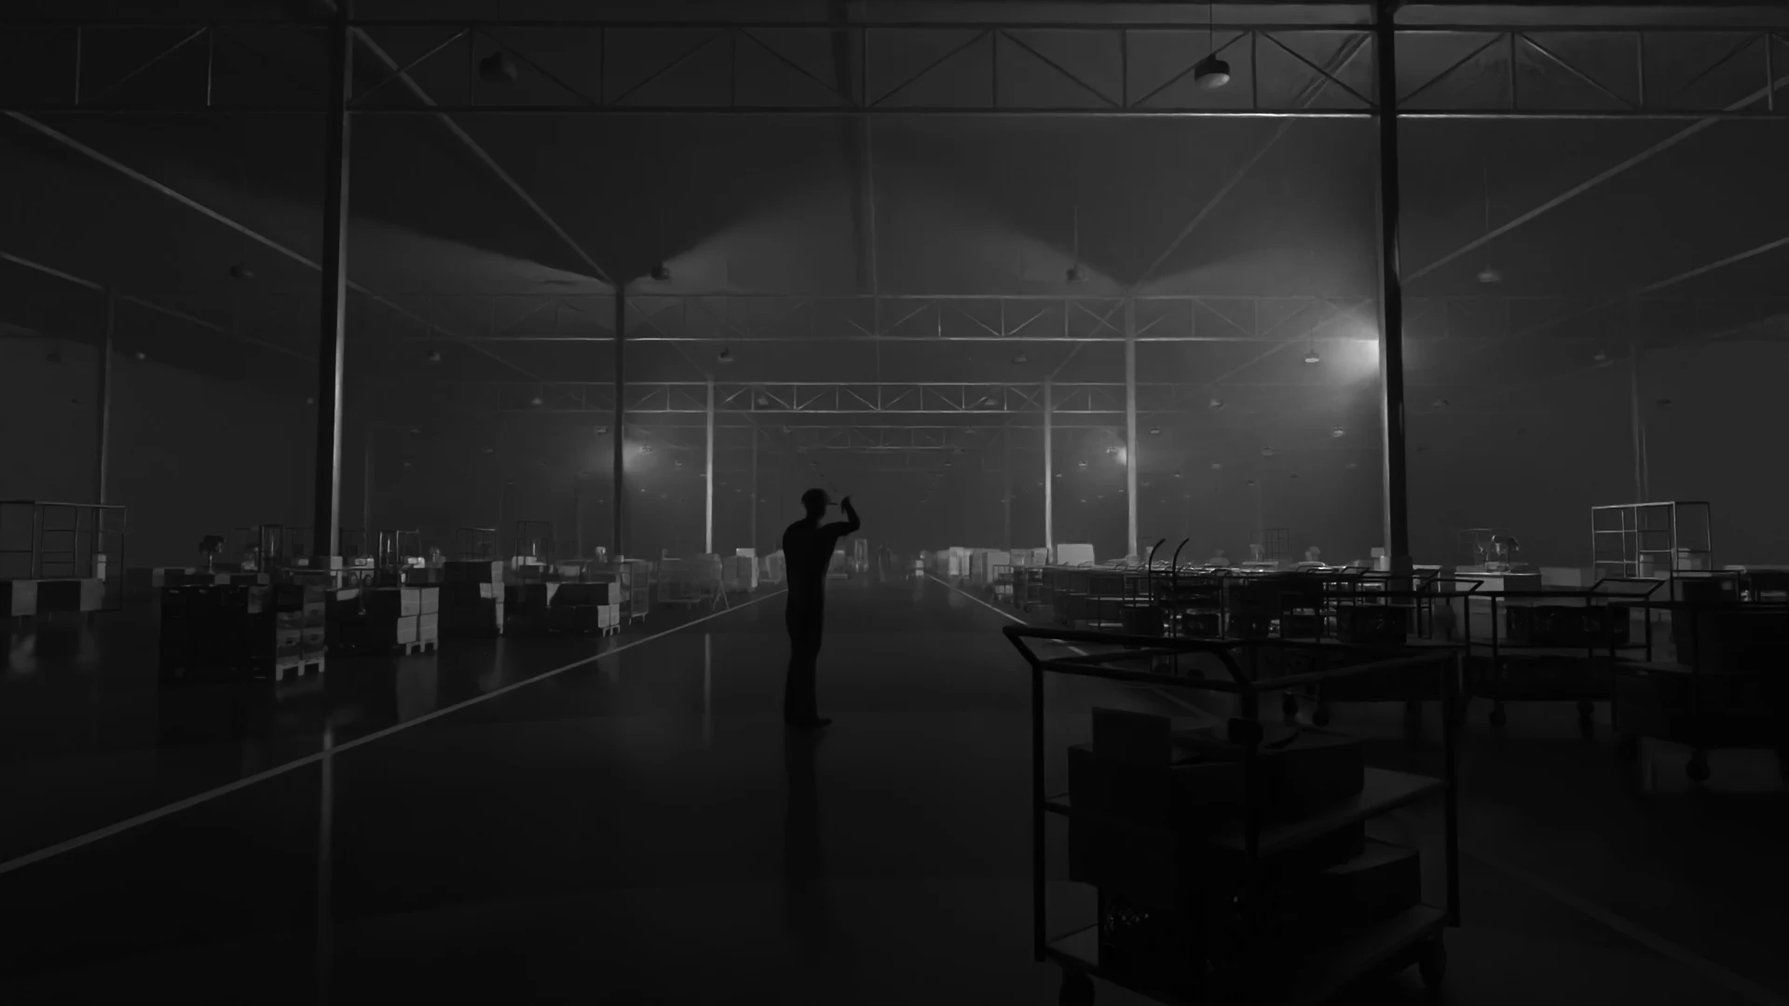
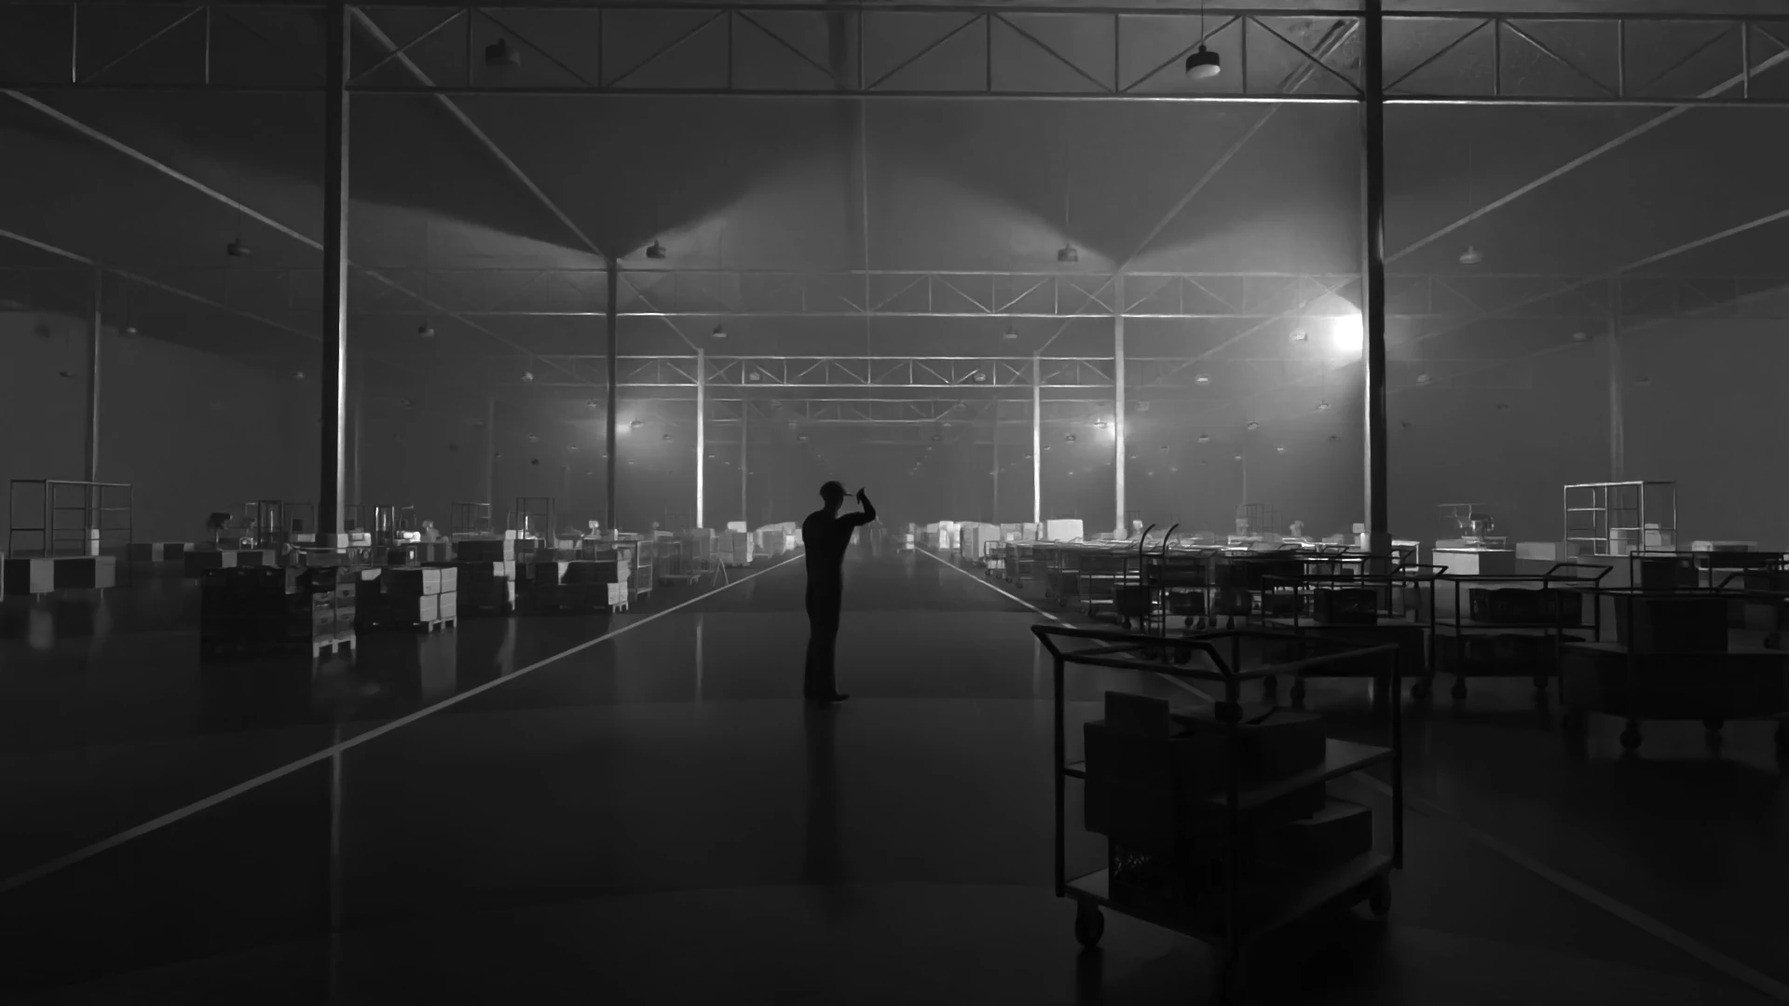
Explainer: Found re-shot with the whole trolley, labels on clear ground at full contrast, the plant dims before the tag arrives
Claude-Session: https://claude.ai/code/session_01YEydMJrMXd25Uxd8C1TWVL

diff --git a/studio/v1/js/lfs.js b/studio/v1/js/lfs.js
@@ -20,7 +20,13 @@
     return { el: el, k: el.getAttribute('data-k'), plate: el.getAttribute('data-plate'), a: r[0], b: r[1], img: $('img', el), o: -1 };
   });
   var FADE = .013;     /* scenes meet and cross-fade: there is never an empty screen between them */
-  function fadeOf(f, p) { return (f.a <= 0 ? 1 : ss(f.a - FADE, f.a + FADE, p)) * (f.b >= 1 ? 1 : 1 - ss(f.b - FADE, f.b + FADE, p)); }
+  /* into and out of the tag close-up the picture dips: the plant dims first, then the tag arrives (no ghost of one over the other) */
+  function fadeOf(f, p) {
+    var di = f.k === 'tag' || f.k === 'found', dout = f.k === 'isl' || f.k === 'tag';
+    var i = f.a <= 0 ? 1 : di ? ss(f.a - FADE * .4, f.a + FADE * 2.4, p) : ss(f.a - FADE, f.a + FADE, p);
+    var o = f.b >= 1 ? 1 : dout ? 1 - ss(f.b - FADE * 2.4, f.b + FADE * .4, p) : 1 - ss(f.b - FADE, f.b + FADE, p);
+    return i * o;
+  }
   var texts = $$('[data-p]').filter(function (el) { return !el.classList.contains('lfs-f'); }).map(function (el) {
     var fr = el.closest('.lfs-f'), li = el.tagName === 'LI';
     var t = { el: el, li: li, plate: fr.getAttribute('data-plate'), at: el.getAttribute('data-at'), o: -1, x: -1, y: -1 };
@@ -94,7 +100,7 @@
       snd.blink(t);
     } else if (f.k === 'found') {
       var cone = ss(.5, .66, q), run = q > .1;
-      u.sod[0] = mix(.34, .1, cone); u.col[0] = cone * 1.7; u.zoom = 1.035 + .03 * q;
+      u.sod[0] = mix(.46, .1, cone); u.col[0] = cone * 1.7; u.zoom = 1.035 + .03 * q;
       var ph = t % PERIOD, n = Math.floor(t / PERIOD);
       if (n !== pulse.n) { pulse.n = n; pulse.hit = [0, 0, 0]; if (run) snd.tick(); }
       var r = ph * SPEED; pulse.r = r;
@@ -318,7 +324,7 @@
           var c = [[dx, dy], [-dx, dy], [dx, -dy], [-dx, -dy]], ok = false;
           for (var ci = 0; ci < 4 && !ok; ci++) {
             var l = X + (c[ci][0] > 0 ? c[ci][0] : c[ci][0] - x.w), tp = Y + (c[ci][1] > 0 ? c[ci][1] : c[ci][1] - x.h + 20);
-            ok = l > 12 && l + x.w < sw - 12 && tp > 12 && tp + x.h < (tall ? zone : sh - 60) && !(tz && l < tz.r + 16 && l + x.w > tz.l - 16 && tp < tz.b + 12 && tp + x.h > tz.t - 12);
+            ok = l > 12 && l + x.w < sw - 12 && tp > (tall ? 70 : 100) && tp + x.h < (tall ? zone : sh - 60) && !(tz && l < tz.r + 16 && l + x.w > tz.l - 16 && tp < tz.b + 12 && tp + x.h > tz.t - 12);
             if (ok) { dx = c[ci][0]; dy = c[ci][1]; }
           }
           if (!ok) { set(x, 0); return; }

diff --git a/studio/v1/css/lfs.css b/studio/v1/css/lfs.css
@@ -48,8 +48,10 @@
 .lfs-on .lfs-word,.lfs-on .lfs-lines p,.lfs-on .lfs-facts li,.lfs-on .lfs-count,.lfs-on .lfs-close{opacity:0;will-change:opacity,transform}
 .lfs-on .lfs-facts{position:absolute;inset:0;z-index:4;margin:0;padding:0}
 .lfs-on .lfs-facts li{position:absolute;left:0;top:0;width:0;height:0;margin:0}
-.lfs-on .lfs-facts li>span{position:absolute;white-space:nowrap;text-shadow:0 0 14px rgba(5,6,13,.9),0 0 3px rgba(5,6,13,.8)}
-.lfs-hair{position:absolute;left:0;top:0;height:1px;background:rgba(255,255,255,.4);transform-origin:0 50%}
+.lfs-on .lfs-facts li>span{position:absolute;white-space:nowrap;color:#f4f6fa;z-index:0;text-shadow:0 0 12px rgba(5,6,13,.95),0 0 3px rgba(5,6,13,.9)}
+/* a label stands in its own soft patch of dark, with no edge: not a card */
+.lfs-on .lfs-facts li>span::before{content:"";position:absolute;z-index:-1;inset:-12px -20px;border-radius:30px;background:rgba(5,6,13,.74);filter:blur(13px)}
+.lfs-hair{position:absolute;left:0;top:0;height:1px;background:rgba(255,255,255,.62);transform-origin:0 50%}
 .lfs-dot{position:absolute;left:-3px;top:-3px;width:6px;height:6px;border-radius:50%;background:var(--lfs-blue)}
 .lfs-wait .lfs-dot{background:var(--lfs-amber)}
 .lfs-on .lfs-end{position:absolute;z-index:4;left:var(--lfs-m);top:calc(var(--sv)*.3);padding:0;width:min(60vw,820px)}

diff --git a/studio/v1/index.html b/studio/v1/index.html
@@ -145,9 +145,9 @@
         </div>
       </div>
       <ul class="lfs-facts">
-        <li data-at="worker" data-p=".795,.93" data-pm=".79,.848" data-o="38,-92" data-om="22,-74"><span>Nearest free forklift:<br><b>35 m</b>, aisle B3.</span></li>
+        <li data-at="worker" data-p=".795,.93" data-pm=".79,.848" data-o="-56,-128" data-om="22,-74"><span>Nearest free forklift:<br><b>35 m</b>, aisle B3.</span></li>
         <li data-at="free" class="lfs-wait" data-p=".82,.93" data-pm=".805,.848" data-o="44,34" data-om="-20,40"><span>Parked<br><b>2 h 10 min.</b></span></li>
-        <li data-at="queue" class="lfs-wait" data-p=".845,.93" data-pm=".856,.93" data-o="44,26" data-om="24,-70"><span><b>3</b> forklifts in aisle B3.<br>Waiting <b>12 min.</b></span></li>
+        <li data-at="queue" class="lfs-wait" data-p=".845,.93" data-pm=".856,.93" data-o="64,-36" data-om="24,-70"><span><b>3</b> forklifts in aisle B3.<br>Waiting <b>12 min.</b></span></li>
         <li data-at="dock" class="lfs-wait" data-p=".87,.93" data-pm=".872,.93" data-o="46,-96" data-om="26,-84"><span>Its pallet: line 4.<br>Waiting <b>26 min.</b></span></li>
       </ul>
       <div class="lfs-end">

diff --git a/extras/explainer-lfs/section.html b/extras/explainer-lfs/section.html
@@ -66,9 +66,9 @@
         </div>
       </div>
       <ul class="lfs-facts">
-        <li data-at="worker" data-p=".795,.93" data-pm=".79,.848" data-o="38,-92" data-om="22,-74"><span>Nearest free forklift:<br><b>35 m</b>, aisle B3.</span></li>
+        <li data-at="worker" data-p=".795,.93" data-pm=".79,.848" data-o="-56,-128" data-om="22,-74"><span>Nearest free forklift:<br><b>35 m</b>, aisle B3.</span></li>
         <li data-at="free" class="lfs-wait" data-p=".82,.93" data-pm=".805,.848" data-o="44,34" data-om="-20,40"><span>Parked<br><b>2 h 10 min.</b></span></li>
-        <li data-at="queue" class="lfs-wait" data-p=".845,.93" data-pm=".856,.93" data-o="44,26" data-om="24,-70"><span><b>3</b> forklifts in aisle B3.<br>Waiting <b>12 min.</b></span></li>
+        <li data-at="queue" class="lfs-wait" data-p=".845,.93" data-pm=".856,.93" data-o="64,-36" data-om="24,-70"><span><b>3</b> forklifts in aisle B3.<br>Waiting <b>12 min.</b></span></li>
         <li data-at="dock" class="lfs-wait" data-p=".87,.93" data-pm=".872,.93" data-o="46,-96" data-om="26,-84"><span>Its pallet: line 4.<br>Waiting <b>26 min.</b></span></li>
       </ul>
       <div class="lfs-end">

diff --git a/extras/explainer-lfs/blender/shots.py b/extras/explainer-lfs/blender/shots.py
@@ -1,0 +1,79 @@
+# Key frames for the explainer. usage: python shots.py <shot> <out.png> <w> <h> <spp> [extra]
+import sys, math, os, time; sys.path.insert(0, os.path.dirname(os.path.abspath(__file__)))
+import bpy, plant as P
+from mathutils import Vector
+rad = math.radians
+a = sys.argv[sys.argv.index('--') + 1:] if '--' in sys.argv else sys.argv[1:]
+SHOT, OUT, W, H, SPP = a[0], a[1], int(a[2]), int(a[3]), int(a[4])
+P.reset(); sc = P.sc; R = P.R
+
+def camera(loc, tgt, lens, focus=None, fstop=4.):
+    cam = bpy.data.objects.new('cam', bpy.data.cameras.new('cam')); sc.collection.objects.link(cam); sc.camera = cam
+    cam.location = loc; cam.rotation_euler = (Vector(tgt) - Vector(loc)).to_track_quat('-Z', 'Y').to_euler(); cam.data.lens = lens; cam.data.clip_end = 600
+    if H > W: cam.data.sensor_fit = 'VERTICAL'
+    if focus: cam.data.dof.use_dof = True; cam.data.dof.focus_distance = (Vector(focus) - Vector(loc)).length; cam.data.dof.aperture_fstop = fstop
+    return cam
+
+def buffers():
+    """WIP buffers both sides of the main aisle, dense near the camera zone, thinning into the hall."""
+    # right of the aisle (y < 45): the trolley buffer where the story's trolley stands
+    for i in range(13):
+        x = 91.5 + i * 1.75 + R.uniform(-.15, .15)
+        for j, y in enumerate((43.9, 42.6, 41.2)):
+            if R.random() < .22: continue
+            P.trolley(x, y + R.uniform(-.12, .12), rad(90) + R.uniform(-.14, .14), R.choice([0, 1, 1, 2]), tag=False)
+    for x, y, k in [(116, 43.6, 'c'), (118, 43.5, 'b'), (120.2, 43.7, 'w'), (122.4, 43.5, 'g'), (124.5, 43.6, 'b'), (127, 43.6, 'c'), (129.3, 43.4, 'w'), (131.5, 43.7, 'g'),
+                    (117, 41.6, 'w'), (119.4, 41.5, 'c'), (121.8, 41.7, 'b'), (124.2, 41.4, 'w'), (126.6, 41.6, 'g'), (129, 41.5, 'b')]:
+        pal(x, y, k)
+    # left of the aisle (y > 51): pallets waiting for the line, lower and sparser so that side of the frame stays quiet
+    for i in range(16):
+        x = 96 + i * 2.6 + R.uniform(-.2, .2)
+        for y in (52.4, 54.1):
+            if R.random() < .3: continue
+            pal(x, y + R.uniform(-.1, .1), R.choice('bcg') if x < 112 else R.choice('bcwgw'))
+    # deep hall: staging lanes all the way to the docks
+    for i in range(34):
+        x = 140 + i * 2.7
+        for y in (43.5, 41.6, 39.7, 52.5, 54.4, 56.3):
+            if R.random() < .38: continue
+            pal(x + R.uniform(-.2, .2), y, R.choice('bcwwg'))
+
+def pal(x, y, k):
+    r = R.uniform(-.05, .05) + R.choice([0, 0, math.pi / 2])
+    if k == 'b': P.stack_boxes(x, y, R.choice([2, 3, 3, 4]), r)
+    elif k == 'c': P.stack_crates(x, y, R.choice([2, 3, 4]), r)
+    elif k == 'w': P.wrapped(x, y, R.uniform(.9, 1.6), r)
+    else: P.place('cage', (x, y, 0), r, builder=P.b_cage)
+
+def lines():
+    """Assembly lines either side: benches, tool carts, presses, racks, seen dim and deep."""
+    for y0, s in ((33., 1), (24., 1), (63., -1), (72., -1)):
+        for i in range(18):
+            x = 78 + i * 5.2
+            P.place('metal_office_desk', (x, y0, 0), R.uniform(-.03, .03))
+            if i % 2 == 0: P.place('tool_cart', (x + 1.9, y0 + s * 1.1, 0), rad(90) + R.uniform(-.2, .2))
+            if i % 3 == 0: P.place('drill_press_01', (x - .5, y0 + .1, .79), rad(180))
+            if i % 4 == 1: P.place('steel_frame_shelves_03', (x + 2.4, y0 - s * 1.6, 0), 0)
+            if i % 5 == 2: P.place('metal_tool_chest', (x + .6, y0 - s * .2, .79), 0)
+            if i % 3 == 1: P.place('plastic_container', (x - 1.6, y0 + s * 1.2, 0), R.uniform(0, 3))
+
+if SHOT == 'lost_eye':
+    doors = P.hall(); buffers(); lines()
+    # the story's trolley: parked just inside the aisle line, apart from the rest, the real AmIGo on its handle post
+    P.trolley(88.5, 46.45, rad(64), 2, tag=True)
+    P.forklift(151, 49.3, rad(190)); P.forklift(203, 46.8, rad(8)); P.amr(134, 49.8, rad(180))
+    P.place('hand_truck', (95.2, 44.7, 0), rad(200)); P.place('WetFloorSign_01', (108, 51.2, 0), .4)
+    P.lighting(off={(102, 42), (78, 54), (90, 54), (102, 54)}, dim={(78, 42): .9, (90, 42): .55})
+    P.yard(doors); P.haze(float(os.environ.get('HAZE', '.0024')), .62)
+    PEOPLE = [((93.0, 48.0), rad(-57), 'search'), ((126, 47.6), rad(12), 'walk'), ((171, 50.2), rad(170), 'stand')]
+    import people; people.add(PEOPLE)
+    camera((83.6, 49.4, 1.56), (113.4, 45.6, 2.5), 32, focus=(93.0, 48.0, 1.4), fstop=5.6)
+
+c = sc.cycles; sc.render.engine = 'CYCLES'; c.device = 'CPU'; c.samples = SPP; c.use_adaptive_sampling = True; c.adaptive_threshold = .03
+c.use_denoising = True; c.denoiser = 'OPENIMAGEDENOISE'; c.max_bounces = 6; c.diffuse_bounces = 3; c.glossy_bounces = 3; c.volume_bounces = 1; c.transmission_bounces = 2
+c.volume_step_rate = 4.0; c.volume_max_steps = 128; c.use_light_tree = True; c.sample_clamp_indirect = 6.; c.caustics_reflective = False; c.caustics_refractive = False
+sc.render.resolution_x, sc.render.resolution_y = W, H; sc.render.resolution_percentage = 100; sc.render.threads_mode = 'AUTO'
+sc.view_settings.view_transform = 'AgX'; sc.view_settings.look = 'AgX - Base Contrast'; sc.view_settings.exposure = float(os.environ.get('EXPO', '0'))
+sc.render.filepath = OUT; sc.render.image_settings.file_format = 'PNG'; sc.render.image_settings.color_depth = '16'
+t0 = time.time(); bpy.ops.render.render(write_still=True); print('RENDER_SECONDS', round(time.time() - t0, 1))
+if os.environ.get('SAVE'): bpy.ops.wm.save_as_mainfile(filepath=OUT.replace('.png', '.blend'))

diff --git a/extras/explainer-lfs/blender/props_sheet.py b/extras/explainer-lfs/blender/props_sheet.py
@@ -1,0 +1,22 @@
+import sys,math; sys.path.insert(0,'.')
+import bpy, plant as P
+P.reset(); sc=P.sc
+bpy.ops.mesh.primitive_plane_add(size=60); bpy.context.object.data.materials.append(P.mat('g',(.25,.25,.25,1),.5))
+P.trolley(0,0,math.radians(20),2); P.forklift(3.5,0,math.radians(-25)); P.amr(7,0,math.radians(30))
+P.place('pallet',(9.5,0,0),builder=P.b_pallet); P.place('cage',(11.5,0,0),.3,builder=P.b_cage); P.wrapped(13.5,0,1.3,.2)
+P.place('hardhat',(-1.5,0,1.0),builder=P.b_hardhat); P.amimo((-2.5,0,1.0)); P.amigo((-3.2,0,1.0))
+P.stack_boxes(15.5,0,3,.1); P.stack_crates(17.5,0,3,-.1)
+for n,x in (('hand_truck',19),('industrial_pastic_container',20.5),('plastic_container',22),('steel_frame_shelves_03',23.5),('tool_cart',25.5),('metal_tool_chest',27),('rollershutter_door',30),('drill_press_01',33),('power_box_01',34.5),('barrel_03',35.5),('metal_office_desk',37.5),('portable_welding_cart',39.5),('korean_fire_extinguisher_01',41)):
+    try: P.place(n,(x,3,0))
+    except Exception as e: print('FAIL',n,e)
+import mathutils
+for o in bpy.data.objects:
+    if o.name.startswith('Am'):
+        print(o.name,[ (c.name,[round(v,3) for v in c.dimensions]) for c in o.children])
+bpy.ops.object.light_add(type='AREA',location=(8,-6,7),rotation=(math.radians(45),0,0)); l=bpy.context.object; l.data.size=14; l.data.energy=9000
+def shot(name,loc,tgt,lens=35,w=1600,h=600):
+    cam=bpy.data.objects.new('c',bpy.data.cameras.new('c')); sc.collection.objects.link(cam); sc.camera=cam
+    cam.location=loc; cam.rotation_euler=(mathutils.Vector(tgt)-mathutils.Vector(loc)).to_track_quat('-Z','Y').to_euler(); cam.data.lens=lens
+    sc.render.engine='CYCLES'; sc.cycles.samples=24; sc.cycles.use_denoising=True
+    sc.render.resolution_x=w; sc.render.resolution_y=h; sc.render.filepath=f'/home/user/x3d/out/{name}.png'; bpy.ops.render.render(write_still=True)
+shot('props_a',(6,-9,3),(6.5,0,.8)); shot('props_b',(30,-9,4),(30,3,.8),28); shot('props_c',(-2.4,-1.0,1.25),(-2.6,0,1.02),60,1200,600); shot('props_d',(-1.2,-1.6,1.3),(-.3,0,.75),50,1200,700)

diff --git a/extras/explainer-lfs/blender/passes.py b/extras/explainer-lfs/blender/passes.py
@@ -1,0 +1,24 @@
+# Split a multilayer EXR render into denoised light-group layers, depth and a beauty check. usage: passes.py in.exr outdir
+import sys, os, json, numpy as np, OpenEXR, oidn
+from PIL import Image
+src, out = sys.argv[1], sys.argv[2]; os.makedirs(out, exist_ok=True)
+f = OpenEXR.File(src); P = {}
+for p in f.parts:
+    n = p.header.get('name', '').replace('ViewLayer.', '')
+    ch = list(p.channels.values())
+    a = ch[0].pixels if len(ch) == 1 else np.stack([c.pixels for c in ch], -1)
+    P[n] = np.ascontiguousarray(a.astype(np.float32))
+alb = P['Denoising Albedo'][..., :3]; nrm = P['Denoising Normal'][..., :3]
+import ctypes
+_L = ctypes.CDLL(os.path.join(os.path.dirname(oidn.__file__), 'lib.linux.x64/libOpenImageDenoise.so.'+oidn.oidn_version)); _L.oidnSetFilter1b.argtypes=[ctypes.c_void_p, ctypes.c_char_p, ctypes.c_bool]
+dev = oidn.NewDevice(); oidn.CommitDevice(dev)
+def denoise(img):
+    img = np.ascontiguousarray(img[..., :3]); res = np.zeros_like(img); flt = oidn.NewFilter(dev, 'RT')
+    oidn.SetSharedFilterImage(flt, 'color', img, oidn.FORMAT_FLOAT3, img.shape[1], img.shape[0])
+    oidn.SetSharedFilterImage(flt, 'albedo', np.ascontiguousarray(alb), oidn.FORMAT_FLOAT3, img.shape[1], img.shape[0])
+    oidn.SetSharedFilterImage(flt, 'normal', np.ascontiguousarray(nrm), oidn.FORMAT_FLOAT3, img.shape[1], img.shape[0])
+    oidn.SetSharedFilterImage(flt, 'output', res, oidn.FORMAT_FLOAT3, img.shape[1], img.shape[0])
+    _L.oidnSetFilter1b(flt, b'hdr', True); oidn.CommitFilter(flt); oidn.ExecuteFilter(flt); oidn.ReleaseFilter(flt); return res
+groups = {n[9:]: denoise(a) for n, a in P.items() if n.startswith('Combined_')}
+np.savez_compressed(os.path.join(out, 'layers.npz'), depth=P['Depth'][..., 0] if P['Depth'].ndim == 3 else P['Depth'], **groups)
+print('groups', {k: float(v.mean()) for k, v in groups.items()}, 'depth', float(np.median(P['Depth'])))

diff --git a/extras/explainer-lfs/blender/lg_test.py b/extras/explainer-lfs/blender/lg_test.py
@@ -1,0 +1,27 @@
+import bpy, math, os
+bpy.ops.wm.read_factory_settings(use_empty=True); sc=bpy.context.scene; vl=sc.view_layers[0]
+bpy.ops.mesh.primitive_plane_add(size=20); bpy.ops.mesh.primitive_monkey_add(location=(0,0,1))
+for n,loc,colr in (('a',(3,-3,4),(1,.5,.2)),('b',(-3,-3,4),(.2,.5,1))):
+    bpy.ops.object.light_add(type='POINT',location=loc); l=bpy.context.object; l.data.energy=2000; l.data.color=colr
+    vl.lightgroups.add(name=n); l.lightgroup=n
+cam=bpy.data.objects.new('c',bpy.data.cameras.new('c')); sc.collection.objects.link(cam); sc.camera=cam; cam.location=(0,-8,3); cam.rotation_euler=(math.radians(72),0,0)
+sc.render.engine='CYCLES'; sc.cycles.samples=16; sc.cycles.use_denoising=False; sc.render.resolution_x=320; sc.render.resolution_y=180
+vl.use_pass_z=True; vl.cycles.denoising_store_passes=True; vl.use_pass_position=True
+print([p.identifier for p in sc.render.image_settings.bl_rna.properties]);
+try: sc.render.image_settings.media_type='MULTI_LAYER_IMAGE'
+except Exception as e: print('mt',e)
+sc.render.image_settings.file_format='OPEN_EXR_MULTILAYER'; sc.render.image_settings.color_depth='32'; sc.render.filepath='/home/user/x3d/out/lg_test.exr'
+bpy.ops.render.render(write_still=True)
+print('nodegroup attr', hasattr(sc,'compositing_node_group'), hasattr(sc,'node_tree'))
+try:
+    import OpenImageIO as oiio; print('oiio ok', oiio.VERSION_STRING)
+    i=oiio.ImageInput.open('/home/user/x3d/out/lg_test.exr'); 
+    k=0
+    while True:
+        sp=i.spec(k,0)
+        if sp.width==0 or not i.seek_subimage(k,0): break
+        print(k, sp.channelnames[:40]); k+=1
+except Exception as e: print('oiio err',e)
+try:
+    import oidn; print('oidn ok')
+except Exception as e: print('oidn err',e)

diff --git a/extras/explainer-lfs/blender/grade.py b/extras/explainer-lfs/blender/grade.py
@@ -1,0 +1,20 @@
+# Sodium grade: a low-pressure sodium lamp emits one wavelength, so hue cannot exist. Luminance drives a single-hue ramp.
+import sys, numpy as np
+from PIL import Image, ImageFilter
+src, dst = sys.argv[1], sys.argv[2]; mode = sys.argv[3] if len(sys.argv) > 3 else 'sodium'
+im = Image.open(src).convert('RGB'); a = np.asarray(im).astype(np.float32) / 255.
+if mode == 'sodium':
+    L = (a ** 2.2 @ np.array([.2126, .7152, .0722])) ** (1 / 2.2)
+    L = np.clip((L - .03) / .9, 0, 1) ** 1.35
+    # ramp: black -> deep amber -> sodium yellow-orange -> pale yellow at the very top (a lamp's core)
+    stops = np.array([0, .25, .6, .88, 1.]); cols = np.array([[0, 0, 0], [.27, .13, .012], [.78, .48, .06], [.98, .78, .26], [1., .95, .7]])
+    out = np.stack([np.interp(L, stops, cols[:, i]) for i in range(3)], -1)
+else: out = a
+# halation: the brightest sources bleed a little; then fine grain weighted to the mid-tones; then a gentle vignette
+h, w = out.shape[:2]
+glow = np.asarray(Image.fromarray((np.clip(out - .72, 0, 1) * 255 * 3).clip(0, 255).astype(np.uint8)).filter(ImageFilter.GaussianBlur(w / 110))).astype(np.float32) / 255.
+out = 1 - (1 - out) * (1 - glow * .5)
+rng = np.random.default_rng(3); g = rng.normal(0, 1, (h, w, 1)).astype(np.float32)
+lum = out.mean(-1, keepdims=True); out = out + g * .022 * (.35 + 1.6 * lum * (1 - lum))
+yy, xx = np.mgrid[0:h, 0:w]; r2 = ((xx / w - .5) ** 2 + (yy / h - .5) ** 2 * (h / w) ** 2)[..., None]; out = out * (1 - .55 * r2)
+Image.fromarray((np.clip(out, 0, 1) * 255).astype(np.uint8)).save(dst, quality=93)

diff --git a/extras/explainer-lfs/blender/sheet.py b/extras/explainer-lfs/blender/sheet.py
@@ -1,0 +1,23 @@
+import bpy,sys,math,glob,os,mathutils
+bpy.ops.wm.read_factory_settings(use_empty=True)
+sc=bpy.context.scene
+x=0
+for d in sorted(glob.glob('ph/*/*.gltf')):
+    before=set(bpy.data.objects); bpy.ops.import_scene.gltf(filepath=d)
+    objs=[o for o in bpy.data.objects if o not in before and o.type=='MESH']
+    mn=mathutils.Vector((1e9,)*3); mx=-mn
+    for o in objs:
+        for c in o.bound_box:
+            w=o.matrix_world@mathutils.Vector(c)
+            for i in range(3): mn[i]=min(mn[i],w[i]); mx[i]=max(mx[i],w[i])
+    print('ASSET',os.path.basename(d),[round(v,2) for v in (mx-mn)],'min',[round(v,2) for v in mn])
+    for o in bpy.data.objects:
+        if o not in before and o.parent is None: o.location.x+=x-mn.x
+    x+=(mx-mn).x+.4
+bpy.ops.mesh.primitive_plane_add(size=40)
+bpy.ops.object.light_add(type='AREA',location=(x/2,-4,5),rotation=(math.radians(50),0,0)); l=bpy.context.object; l.data.size=6; l.data.energy=3000
+cam=bpy.data.objects.new('c',bpy.data.cameras.new('c')); sc.collection.objects.link(cam); sc.camera=cam
+cam.location=(x/2,-9,3); cam.rotation_euler=(math.radians(74),0,0); cam.data.lens=35
+sc.render.engine='CYCLES'; sc.cycles.samples=32; sc.cycles.use_denoising=True
+sc.render.resolution_x=1600; sc.render.resolution_y=600; sc.render.filepath='/home/user/x3d/out/sheet.png'
+bpy.ops.render.render(write_still=True)

diff --git a/extras/explainer-lfs/blender/props2.py b/extras/explainer-lfs/blender/props2.py
@@ -1,0 +1,12 @@
+import sys,math; sys.path.insert(0,'.')
+import bpy, plant as P, mathutils
+P.reset(); sc=P.sc
+bpy.ops.mesh.primitive_plane_add(size=60); bpy.context.object.data.materials.append(P.mat('g',(.25,.25,.25,1),.5))
+P.forklift(0,0,math.radians(-30)); P.amr(3.2,-.5,math.radians(25)); P.place('cage',(5.2,0,0),.3,builder=P.b_cage); P.wrapped(6.8,0,1.3,.2); P.stack_crates(8.4,0,3,-.1)
+P.place('hardhat',(3.2,-2.2,.2),builder=P.b_hardhat)
+bpy.ops.object.light_add(type='AREA',location=(3,-6,7),rotation=(math.radians(45),0,0)); l=bpy.context.object; l.data.size=10; l.data.energy=6000
+bpy.ops.object.light_add(type='AREA',location=(-6,3,4),rotation=(math.radians(60),0,math.radians(-120))); l=bpy.context.object; l.data.size=6; l.data.energy=1500
+cam=bpy.data.objects.new('c',bpy.data.cameras.new('c')); sc.collection.objects.link(cam); sc.camera=cam
+cam.location=(3.6,-8.5,2.6); cam.rotation_euler=(mathutils.Vector((3.8,0,.9))-cam.location).to_track_quat('-Z','Y').to_euler(); cam.data.lens=32
+sc.render.engine='CYCLES'; sc.cycles.samples=32; sc.cycles.use_denoising=True
+sc.render.resolution_x=1600; sc.render.resolution_y=640; sc.render.filepath='/home/user/x3d/out/props2.png'; bpy.ops.render.render(write_still=True)

diff --git a/extras/explainer-lfs/blender/hum1.py b/extras/explainer-lfs/blender/hum1.py
@@ -1,0 +1,14 @@
+import bpy,sys,os
+bpy.ops.wm.read_factory_settings(use_empty=True)
+bpy.ops.preferences.addon_enable(module='bl_ext.blender_org.mpfb')
+try:
+    r=bpy.ops.mpfb.load_pack(filepath='/home/user/x3d/mh/makehuman_system_assets.zip'); print('pack',r)
+except Exception as e: print('PACKERR',e)
+from bl_ext.blender_org.mpfb.services.humanservice import HumanService
+from bl_ext.blender_org.mpfb.services.locationservice import LocationService
+print('userdata',LocationService.get_user_data())
+import inspect
+print([n for n in dir(HumanService) if not n.startswith('_')])
+print(inspect.signature(HumanService.create_human))
+print(inspect.signature(HumanService.add_mhclo_asset))
+print(inspect.signature(HumanService.add_builtin_rig))
